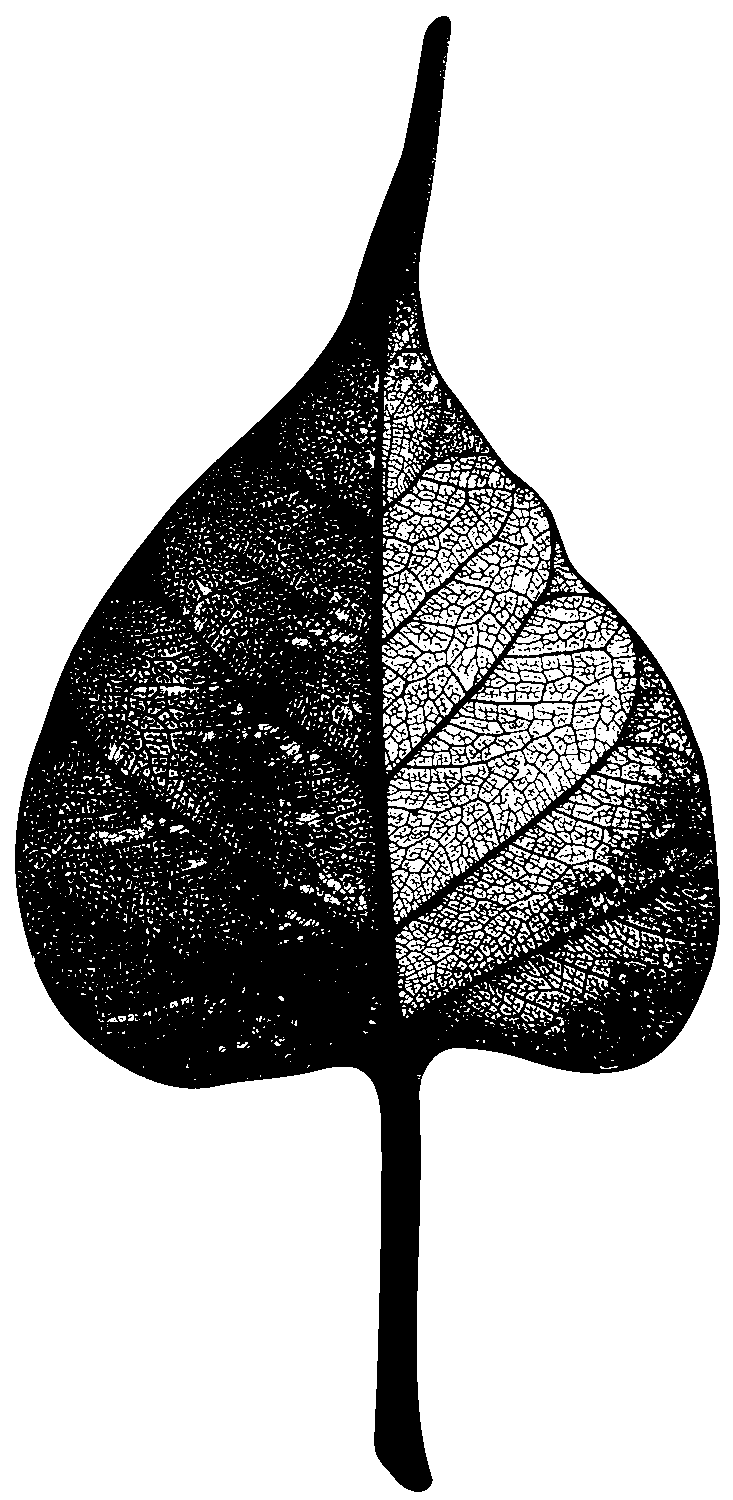
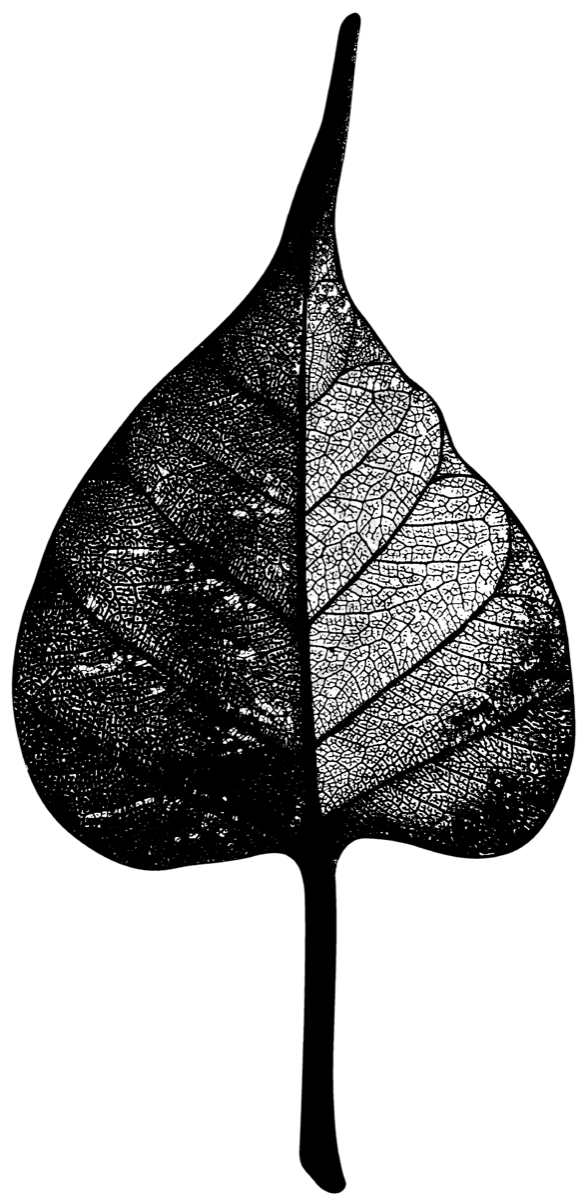
Use transparent peepal scan for the hero watermark
Swap the white-background scan for the new transparent RGBA leaf
(clean alpha edges). Rendered with brightness(0) at very low
opacity (.055), bled off the right edge with a slight rotation —
a delicate partial botanical watermark rather than a heavy
silhouette. Optimised to 586x1200. Source kept out of git.

Changed region(s): [[0.0307, 0.1542, 0.9829, 0.7092], [0.5836, 0.0617, 0.6143, 0.1233]]

diff --git a/v2.html b/v2.html
@@ -153,11 +153,11 @@
     gap:var(--space-4);max-width:72rem;position:relative;z-index:1}
   .threshold .display{max-width:18ch}
   .leaf-ornament{
-    position:absolute;top:50%;right:-3%;transform:translateY(-50%);
-    height:120%;width:auto;opacity:.06;mix-blend-mode:multiply;
+    position:absolute;top:50%;right:-9%;transform:translateY(-50%) rotate(4deg);
+    height:128%;width:auto;opacity:.055;filter:brightness(0);
     pointer-events:none;user-select:none;z-index:0;
   }
-  @media (max-width:1000px){.leaf-ornament{right:-22%;opacity:.045}}
+  @media (max-width:1000px){.leaf-ornament{right:-26%;opacity:.04}}
   @media (max-width:760px){.leaf-ornament{display:none}}
   /* closing sign-off — official NP logo */
   .np-signoff{display:inline-block;margin-top:var(--space-4)}